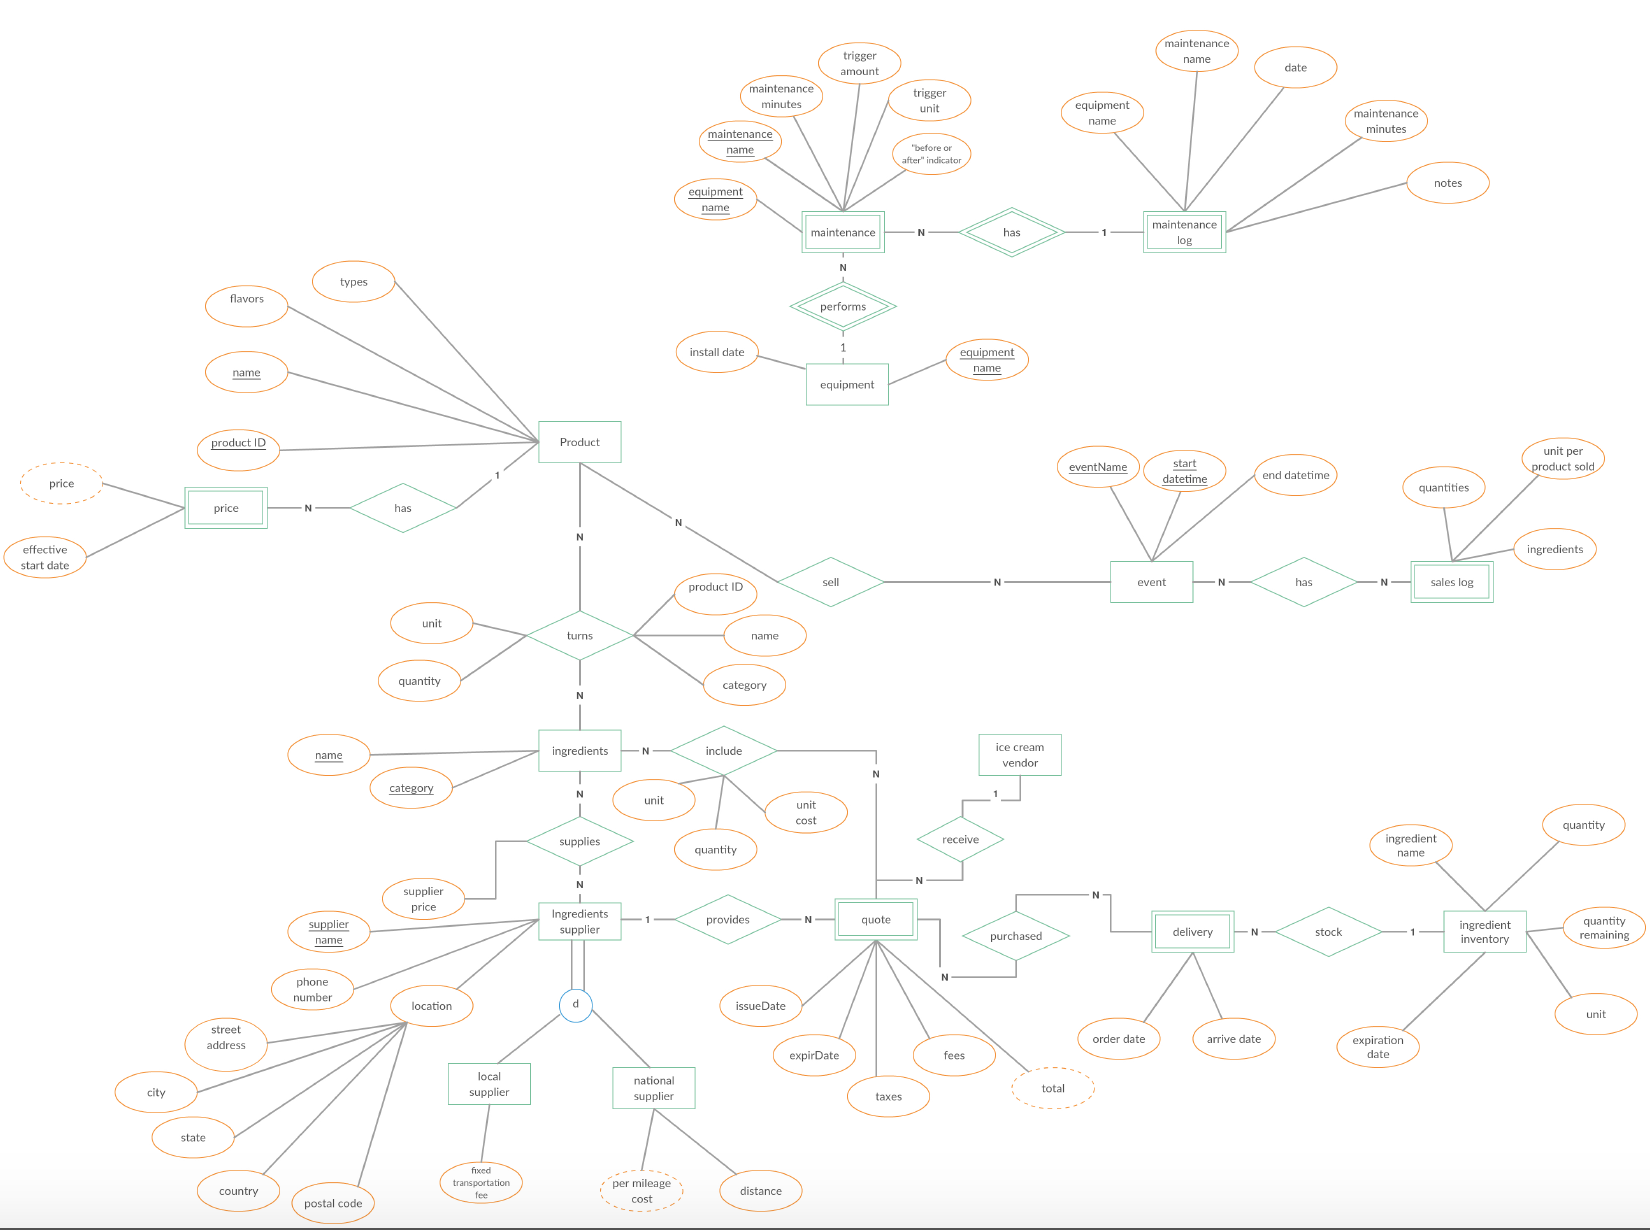
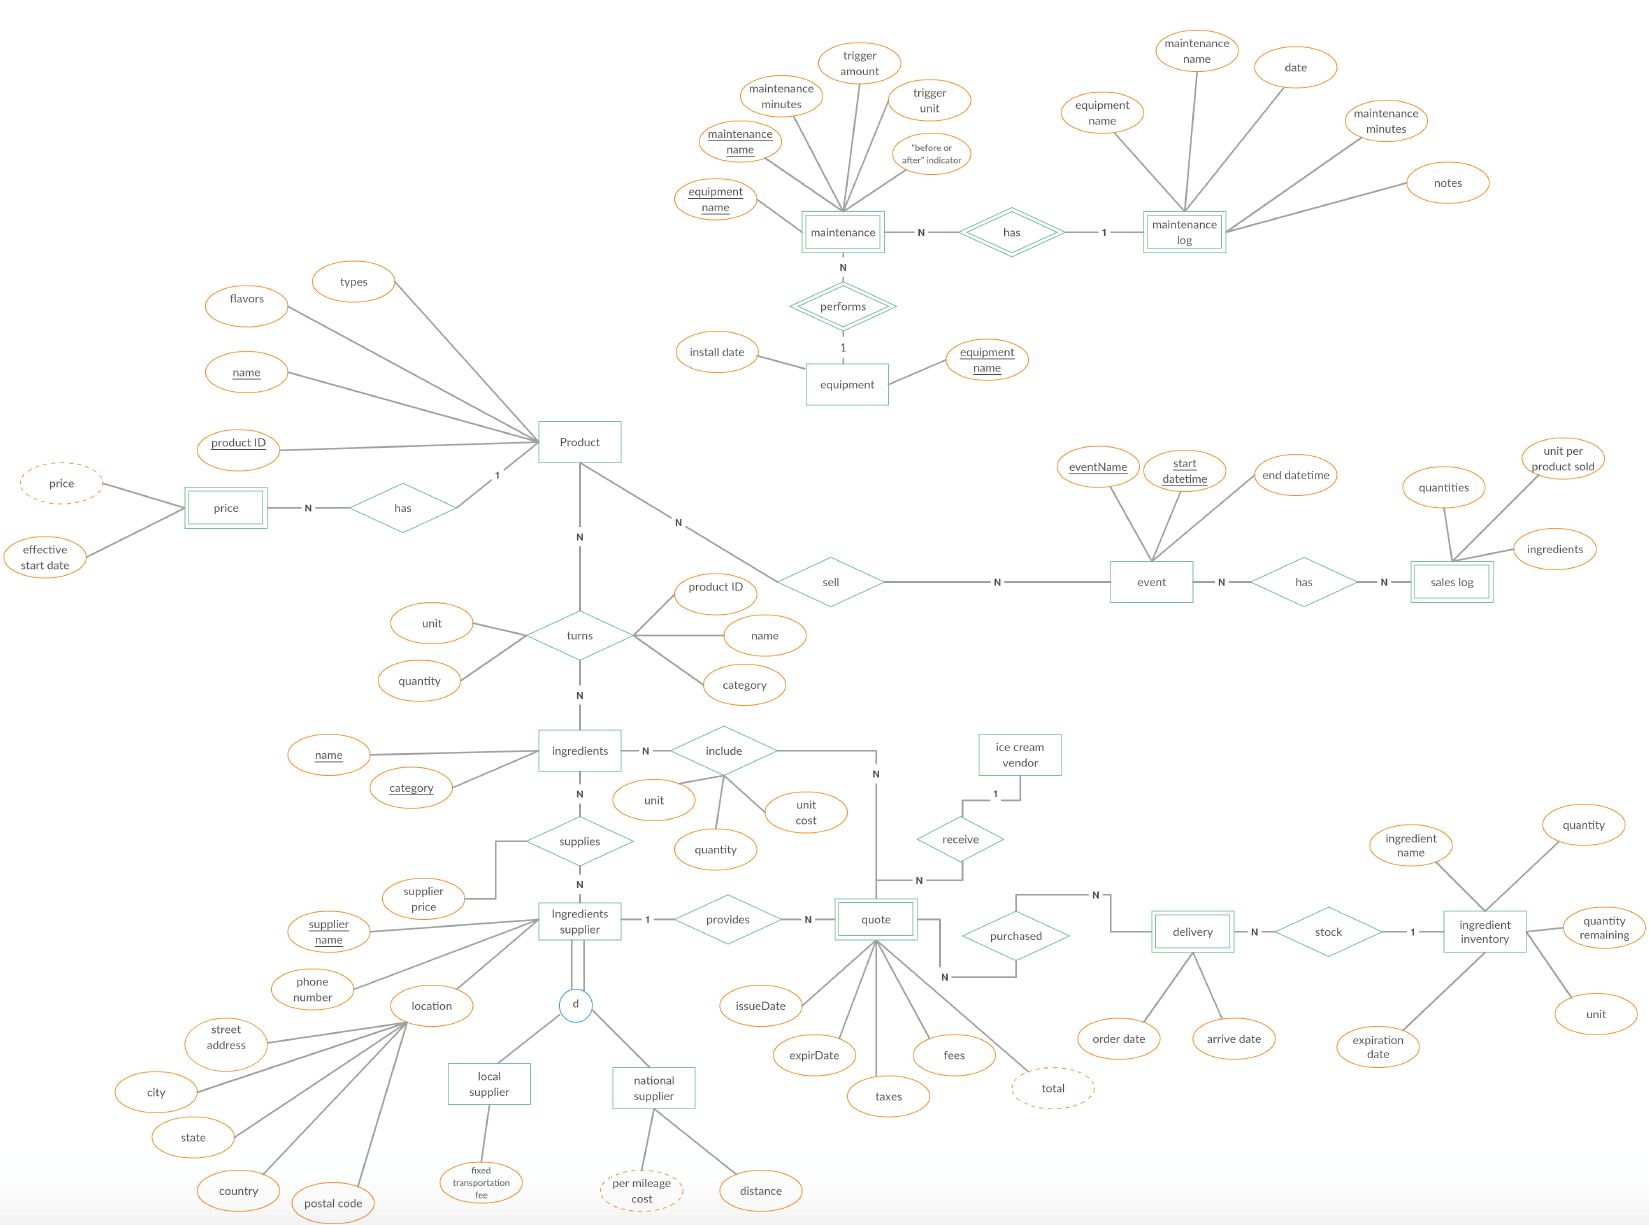
crop ERD plot

diff --git a/_projects/foodtruck_database.md b/_projects/foodtruck_database.md
@@ -12,4 +12,4 @@ tags:
 
 In this project, a SQL database is built to support an ice cream food truck business. An entity-relationship diagram is developed first. Following the ERD, the databases is constructed and populated. Functions, stored procedures, and triggers are written to add functionality to database.
 
-<img class="alignnone  wp-image-577" alt="showcase" src="https://yuchong-zhang.github.io/images/ERD.png" width="1650" height="1230"/>
+<img class="alignnone  wp-image-577" alt="showcase" src="https://yuchong-zhang.github.io/images/ERD.png" width="1649" height="1225"/>
